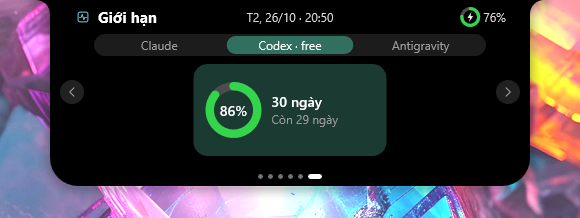
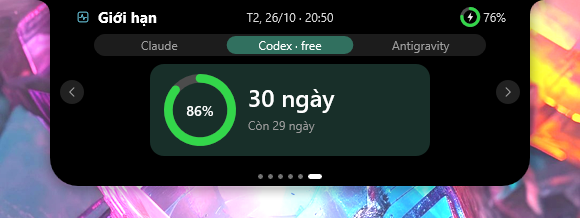
feat(limits): bigger ring and name, a single limit gets a wider card; the name's box is taller so a g is not cut

Changed region(s): [[0.2483, 0.2752, 0.5897, 0.7156], [0.6517, 0.2752, 0.7448, 0.7156]]

diff --git a/src/render/usage_page.rs b/src/render/usage_page.rs
@@ -10,7 +10,7 @@ use crate::usage::{self, Bar, APPS};
 const CARDS_TOP: f32 = 64.0;
 const CARDS_H: f32 = 92.0;
 const GAP: f32 = 6.0;
-const PAD: f32 = 12.0;
+const PAD: f32 = 14.0;
 /// Widest a card gets, so one or two limits do not stretch over the whole page.
 const CARD_MAX_W: f32 = 200.0;
 const RED: (f32, f32, f32) = (1.0, 0.35, 0.35);
@@ -108,7 +108,7 @@ impl Renderer {
             let card = |left: f32, width: f32| -> Result<D2D_RECT_F> {
                 let r = rect(left, top, left + width, top + CARDS_H * s);
                 let k = app_accent(APPS[tab]);
-                self.rt.FillRoundedRectangle(&rounded(r, 14.0 * s), &self.brush(color(k.0 * 0.22 + 0.05, k.1 * 0.22 + 0.05, k.2 * 0.22 + 0.05, a))?);
+                self.rt.FillRoundedRectangle(&rounded(r, 14.0 * s), &self.brush(color(k.0 * 0.17 + 0.05, k.1 * 0.17 + 0.05, k.2 * 0.17 + 0.05, a))?);
                 Ok(r)
             };
             let Some(bars) = self.usage.get(APPS[tab]) else {
@@ -119,26 +119,30 @@ impl Renderer {
 
             if bars.len() <= 2 {
                 // A card per limit: the ring with its percent, the window and the time left beside it.
-                let width = (((cr - cl) - GAP * s) / 2.0).min(CARD_MAX_W * s);
+                // One limit gets a wider card, so its name never has to be cut.
+                let cap = if bars.len() == 1 { CARD_MAX_W * 1.4 } else { CARD_MAX_W };
+                let room = if bars.len() == 1 { cr - cl } else { ((cr - cl) - GAP * s) / 2.0 };
+                let width = room.min(cap * s);
                 let mut x = cl + ((cr - cl) - width * bars.len() as f32 - GAP * s * (bars.len() as f32 - 1.0)) / 2.0;
                 for bar in bars {
                     let r = card(x, width)?;
-                    let d = 56.0 * s;
+                    let d = 72.0 * s;
                     let mid = (r.top + r.bottom) / 2.0;
                     let ring_x = r.left + PAD * s + d / 2.0;
-                    self.draw_ring((ring_x, mid), d, d * 0.15, shown(bar.used) / 100.0, ring_colour(bar.used), a)?;
+                    self.draw_ring((ring_x, mid), d, d * 0.12, shown(bar.used) / 100.0, ring_colour(bar.used), a)?;
                     text(&format!("{}%", shown(bar.used).round()), F_TITLE, rect(ring_x - d / 2.0, mid - d / 2.0, ring_x + d / 2.0, mid + d / 2.0), center, grey(1.0, a))?;
-                    let tx = ring_x + d / 2.0 + 10.0 * s;
+                    let tx = ring_x + d / 2.0 + 12.0 * s;
                     let (_, window) = split_label(&bar.label);
-                    let line = 17.0 * s;
+                    let line = 22.0 * s;
                     // A reading the app made a while ago says so: what it shows now may be further on.
                     let stale = self.usage.updated(APPS[tab]).filter(|&at| now - at > APPS[tab].stale_after());
                     let up = if stale.is_some() { 8.0 * s } else { 0.0 };
                     let (y0, y1) = if bar.resets_at > 0 { (mid - line - up, mid - up) } else { (mid - line / 2.0 - up, mid + line / 2.0 - up) };
-                    text(window, F_TITLE, rect(tx, y0, r.right - PAD * s, y1), lead, grey(1.0, a))?;
+                    // Taller than its line, so the tail of a g or a y is not cut.
+                    text(window, F_BIG, rect(tx, y0 - 8.0 * s, r.right - PAD * s, y1 + 4.0 * s), lead, grey(1.0, a))?;
                     if bar.resets_at > 0 {
                         let left = format!("{} {}", crate::i18n::tr("Còn", "In"), usage::in_words(bar.resets_at, now));
-                        text(&left, F_LABEL, rect(tx, mid + 1.0 * s - up, r.right - PAD * s, mid + line - up), lead, grey(0.6, a))?;
+                        text(&left, F_LABEL, rect(tx, mid + 5.0 * s - up, r.right - PAD * s, mid + line + 4.0 * s - up), lead, grey(0.6, a))?;
                     }
                     if let Some(at) = stale {
                         let ago = format!("{} {}", crate::i18n::tr("Số cũ", "Old"), usage::in_words(now, at));
